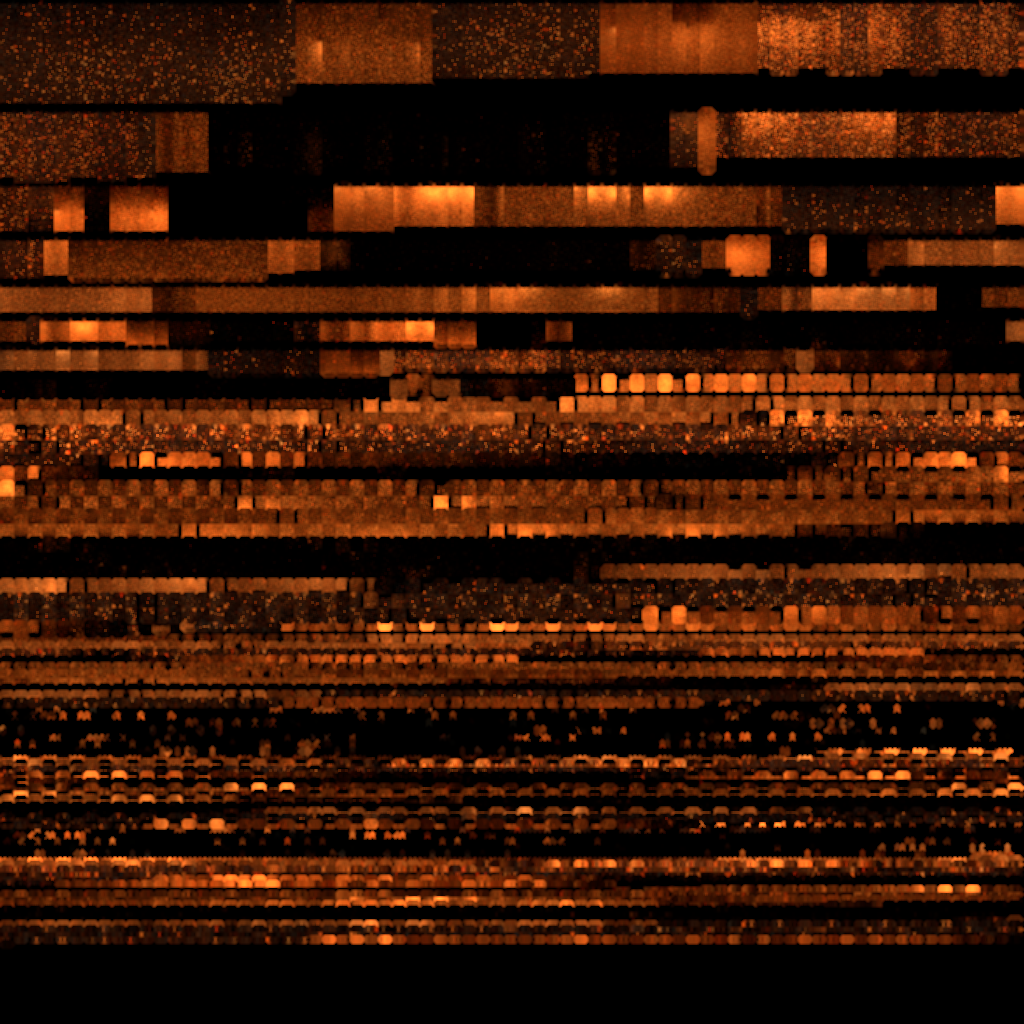
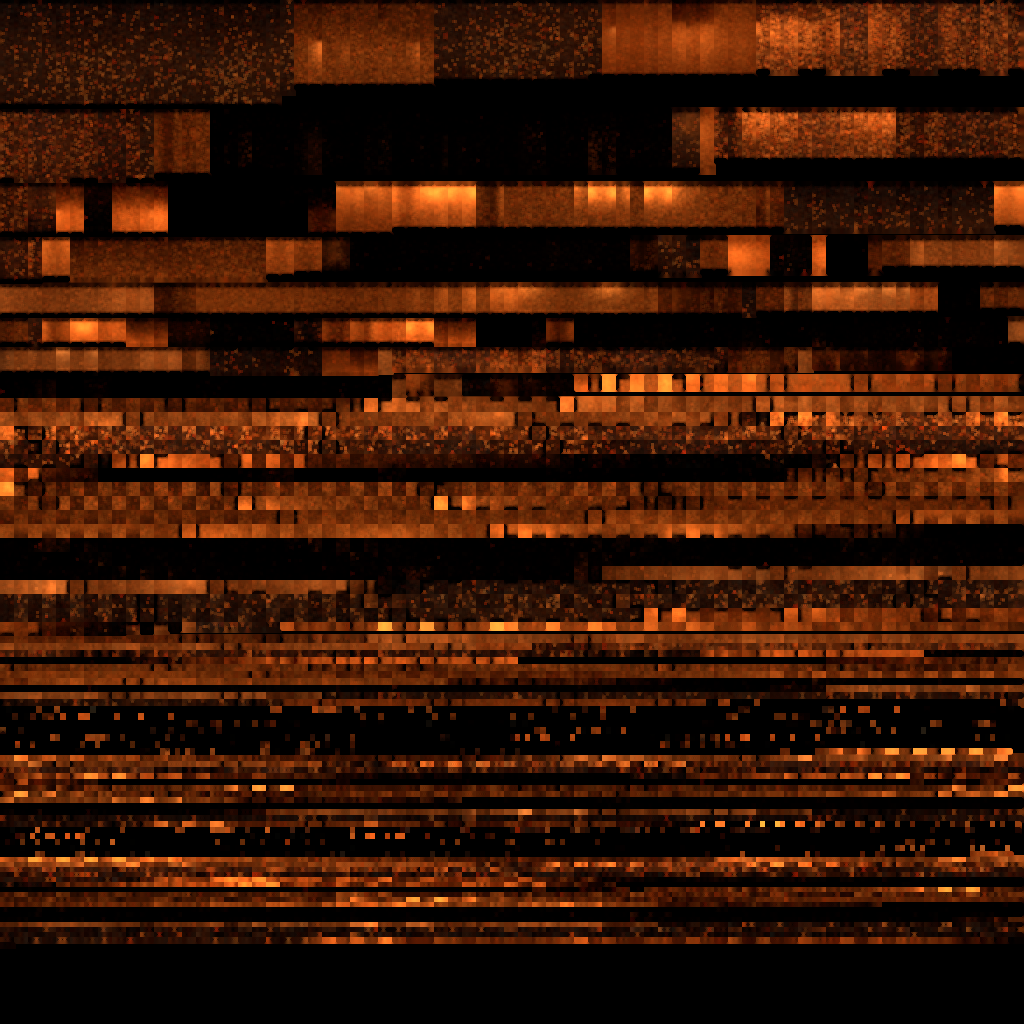
Version 0.2.1: lightmaps without bright edge lines (#20)
The bake splits each level into one object per room (so each sun lights
only its own room), and Blender applied the 4-texel bake margin per
object: rooms baked later painted over the gutters of rooms baked
earlier, and smoothing and bilinear filtering pulled that light onto
1-texel faces (ledge lips, block rims, corbels) as orange-red lines up
to 20x too bright. Blender now bakes with no margin; smoothing reads
only baked texels, and one margin over the whole atlas fills each gutter
from its nearest face. All three chambers re-baked; the per-room sun,
shared fire gain and cold braziers stay.

Claude-Session: https://claude.ai/code/session_019LzoHZkyKj5zu7EwmkgZG8

diff --git a/scripts/bake/bake_lightmap.py b/scripts/bake/bake_lightmap.py
@@ -170,24 +170,53 @@ def bake(objects: list[bpy.types.Object], samples: int) -> None:
     bake.use_pass_direct = False
     bake.use_pass_indirect = True
     bake.use_pass_color = False
-    bake.margin = 4
-    bake.margin_type = "EXTEND"
+    # No margin from Blender: with several objects it dilates each one on its
+    # own, so a later room's margin paints over the gutters of the rooms baked
+    # before it, and thin faces (lips, plinth tops) pick up the wrong room's
+    # light. The margin is applied once over the whole atlas in `dilate`.
+    bake.margin = 0
     bpy.ops.object.select_all(action="DESELECT")
     for obj in objects:
         obj.data.uv_layers.active = obj.data.uv_layers["lightmap"]
         obj.select_set(True)
     bpy.context.view_layer.objects.active = objects[0]
-    bpy.ops.object.bake(type="DIFFUSE", pass_filter={"INDIRECT"}, use_clear=True, margin=4)
+    bpy.ops.object.bake(type="DIFFUSE", pass_filter={"INDIRECT"}, use_clear=True, margin=0)
 
 
-def smooth(pixels: np.ndarray) -> np.ndarray:
-    """Light 3×3 box filter to take the edge off Monte Carlo noise (indirect light is smooth)."""
-    padded = np.pad(pixels, ((1, 1), (1, 1), (0, 0)), mode="edge")
-    acc = np.zeros_like(pixels)
+def box3(values: np.ndarray) -> np.ndarray:
+    """Sum over each texel's 3×3 neighbourhood (zero outside the image)."""
+    padded = np.pad(values, ((1, 1), (1, 1), (0, 0)))
+    acc = np.zeros_like(values)
     for dy in range(3):
         for dx in range(3):
-            acc += padded[dy : dy + pixels.shape[0], dx : dx + pixels.shape[1]]
-    return acc / 9
+            acc += padded[dy : dy + values.shape[0], dx : dx + values.shape[1]]
+    return acc
+
+
+def smooth(pixels: np.ndarray, mask: np.ndarray) -> np.ndarray:
+    """Light 3×3 box filter over baked texels only, to take the edge off Monte Carlo
+    noise (indirect light is smooth). Face rectangles are 2·LIGHTMAP_PAD texels apart,
+    so a texel only ever averages with its own face."""
+    m = mask[:, :, None].astype(np.float32)
+    out = box3(pixels * m) / np.maximum(box3(m), 1e-6)
+    return np.where(m > 0, out, 0)
+
+
+def dilate(pixels: np.ndarray, mask: np.ndarray, steps: int = 4) -> np.ndarray:
+    """Bake margin for the whole atlas at once: grows the baked texels into the gutters
+    (each new texel takes the mean of its filled neighbours), so bilinear filtering at a
+    face's edge reads that face's own light, and each gutter splits between its two faces."""
+    px = pixels.copy()
+    m = mask[:, :, None].astype(np.float32)
+    for _ in range(steps):
+        weight = box3(m)
+        grown = (weight[:, :, 0] > 0) & (m[:, :, 0] == 0)
+        if not grown.any():
+            break
+        acc = box3(px * m) / np.maximum(weight, 1e-6)
+        px[grown] = acc[grown]
+        m[grown] = 1
+    return px
 
 
 def main() -> None:
@@ -199,7 +228,9 @@ def main() -> None:
     w, h = data["lightmapSize"]["width"], data["lightmapSize"]["height"]
 
     reset_scene()
-    image = bpy.data.images.new("lightmap", w, h, alpha=False, float_buffer=True)
+    # With alpha, the bake clears the image to transparent and writes opaque texels,
+    # so alpha is the coverage mask of every object's faces.
+    image = bpy.data.images.new("lightmap", w, h, alpha=True, float_buffer=True)
     objects = build_meshes(data, image)
     add_lights(data, objects)
 
@@ -207,8 +238,10 @@ def main() -> None:
     bake(list(objects.values()), samples)
     print(f"baked {w}×{h} at {samples} spp in {time.time() - t0:.0f} s")
 
-    px = np.array(image.pixels[:], dtype=np.float32).reshape(h, w, 4)[:, :, :3]
-    px = smooth(px)
+    rgba = np.array(image.pixels[:], dtype=np.float32).reshape(h, w, 4)
+    mask = rgba[:, :, 3] > 0.5
+    print(f"{int(mask.sum())} baked texels")
+    px = dilate(smooth(rgba[:, :, :3], mask), mask)
     scale = float(np.percentile(px, 99.7)) or 1.0
     norm = np.clip(px / scale, 0, 1)
     # Store with an sRGB curve so dark indirect light keeps precision in 8 bits.

diff --git a/docs/changelog.md b/docs/changelog.md
@@ -1,5 +1,11 @@
 # Changelog
 
+## Version 0.2.1 (2026-09-27): no more bright lines along edges in the lightmaps
+
+- **The cause** (`scripts/bake/bake_lightmap.py`): the bake splits the level into one object per room so each sun lights only its own room, and Blender applies the bake margin per object. Each room baked later painted its 4-texel margin over the gutters of rooms baked before it, and the atlas leaves only 4 texels between faces. The smoothing and the game's bilinear filtering then pulled that foreign light onto 1-texel faces (ledge lips, plinth tops, block rims, corbels), which showed as orange-red lines up to 20× too bright.
+- **The fix**: Blender bakes with no margin. The smoothing averages only baked texels, and one margin over the whole atlas fills each gutter from its nearest face. The per-room sun, the shared fire gain and height, and leaving out the cold braziers all stay.
+- **All three chambers re-baked** at the same size and samples. The Antechamber leaves the pre-shadow-audit bake that 0.2.0 restored as a stopgap.
+
 ## Version 0.2.0 (2026-09-27)
 
 Three chambers to play, and a tomb that runs and sounds better on phones:
